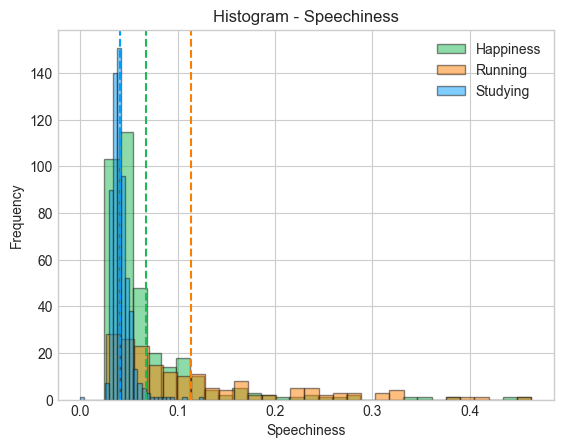
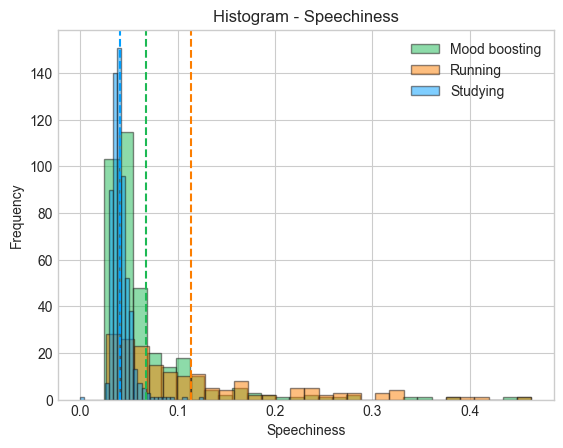
Renamed "happy/happiness" to "mood boosting"

Changed region(s): [[0.7247, 0.0938, 0.9663, 0.2188]]

diff --git a/src/main.py b/src/main.py
@@ -34,17 +34,17 @@ def main():
     spotify = authenticate_client()
 
     df = parse_input_file()
-    playlist_ids_happy = get_playlist_ids(df, 'happy')
+    playlist_ids_mood_boosting = get_playlist_ids(df, 'mood boosting')
     playlist_ids_running = get_playlist_ids(df, 'running')
     playlist_ids_studying = get_playlist_ids(df, 'studying')
 
     # Get tracks from a list of playlists
-    tracks_happy = get_tracks_from_list_of_playlists(spotify, playlist_ids_happy)
+    tracks_mood_boosting = get_tracks_from_list_of_playlists(spotify, playlist_ids_mood_boosting)
     tracks_running = get_tracks_from_list_of_playlists(spotify, playlist_ids_running)
     tracks_studying = get_tracks_from_list_of_playlists(spotify, playlist_ids_studying)
 
     # Get high level audio feature information
-    track_features_map_happy = get_audio_features_in_chunks(spotify, tracks_happy)
+    track_features_map_mood_boosting = get_audio_features_in_chunks(spotify, tracks_mood_boosting)
     track_features_map_running = get_audio_features_in_chunks(spotify, tracks_running)
     track_features_map_studying = get_audio_features_in_chunks(spotify, tracks_studying)
 
@@ -52,16 +52,16 @@ def main():
     t_test_list = []
     for desired_feature in desired_features:
         # Calculate descriptive statistics
-        statistics_list.append(calculate_descriptive_statistics(track_features_map_happy, desired_feature, "happy"))
+        statistics_list.append(calculate_descriptive_statistics(track_features_map_mood_boosting, desired_feature, "mood boosting"))
         statistics_list.append(calculate_descriptive_statistics(track_features_map_running, desired_feature, "running"))
         statistics_list.append(calculate_descriptive_statistics(track_features_map_studying, desired_feature, "studying"))
 
         # Perform t-test
-        t_test_list.append(t_test(track_features_map_happy, track_features_map_running, desired_feature, "running"))
-        t_test_list.append(t_test(track_features_map_happy, track_features_map_studying, desired_feature, "studying"))
+        t_test_list.append(t_test(track_features_map_mood_boosting, track_features_map_running, desired_feature, "running"))
+        t_test_list.append(t_test(track_features_map_mood_boosting, track_features_map_studying, desired_feature, "studying"))
 
         # Create plots per desired feature
-        create_histogram(track_features_map_happy, track_features_map_running, track_features_map_studying,
+        create_histogram(track_features_map_mood_boosting, track_features_map_running, track_features_map_studying,
                          desired_feature)
 
     pd.DataFrame(statistics_list, columns=["mean", "standard deviation", "standard error", "feature", "group"]).to_latex(("../tables/statistics.tex"),index=False)
@@ -136,10 +136,10 @@ def get_audio_features(spotify, tracks, pretty_print=False):
     return track_features_map
 
 
-def create_histogram(track_features_map_happy, track_features_map_running, track_features_map_studying,
+def create_histogram(track_features_map_mood_boosting, track_features_map_running, track_features_map_studying,
                      desired_feature):
     # Convert nested dictionary to data frame
-    track_features_df_happy = pd.DataFrame.from_dict(track_features_map_happy, orient='index')
+    track_features_df_mood_boosting = pd.DataFrame.from_dict(track_features_map_mood_boosting, orient='index')
     track_features_df_running = pd.DataFrame.from_dict(track_features_map_running, orient='index')
     track_features_df_studying = pd.DataFrame.from_dict(track_features_map_studying, orient='index')
 
@@ -148,7 +148,7 @@ def create_histogram(track_features_map_happy, track_features_map_running, track
     plt.style.use('seaborn-whitegrid')
 
     # Plot histograms per category
-    plt.hist(track_features_df_happy[desired_feature], bins=30, alpha=0.5, label="Happiness", facecolor='#1DB954',
+    plt.hist(track_features_df_mood_boosting[desired_feature], bins=30, alpha=0.5, label="Mood boosting", facecolor='#1DB954',
              edgecolor='#191414')
     plt.hist(track_features_df_running[desired_feature], bins=30, alpha=0.5, label="Running", facecolor='#FC7E00',
              edgecolor='#191414')
@@ -156,7 +156,7 @@ def create_histogram(track_features_map_happy, track_features_map_running, track
              edgecolor='#191414')
 
     # Plot dashed line for average
-    plt.axvline(track_features_df_happy[desired_feature].mean(), color='#1DB954', linestyle='dashed')
+    plt.axvline(track_features_df_mood_boosting[desired_feature].mean(), color='#1DB954', linestyle='dashed')
     plt.axvline(track_features_df_running[desired_feature].mean(), color='#FC7E00', linestyle='dashed')
     plt.axvline(track_features_df_studying[desired_feature].mean(), color='#009FFF', linestyle='dashed')
 

diff --git a/tables/statistics.tex b/tables/statistics.tex
@@ -1,24 +1,24 @@
 \begin{tabular}{rrrll}
 \toprule
-   mean &  standard deviation &  standard error &      feature &    group \\
+   mean &  standard deviation &  standard error &      feature &         group \\
 \midrule
-119.429 &              25.672 &           1.359 &        tempo &    happy \\
-127.869 &              29.608 &           2.238 &        tempo &  running \\
-115.602 &              35.325 &           1.429 &        tempo & studying \\
- -5.633 &               1.737 &           0.092 &     loudness &    happy \\
- -4.886 &               1.489 &           0.113 &     loudness &  running \\
--25.236 &               4.797 &           0.194 &     loudness & studying \\
-  0.694 &               0.151 &           0.008 &       energy &    happy \\
-  0.839 &               0.115 &           0.009 &       energy &  running \\
-  0.083 &               0.083 &           0.003 &       energy & studying \\
-  0.652 &               0.107 &           0.006 & danceability &    happy \\
-  0.586 &               0.149 &           0.011 & danceability &  running \\
-  0.368 &               0.118 &           0.005 & danceability & studying \\
-  0.067 &               0.058 &           0.003 &  speechiness &    happy \\
-  0.114 &               0.090 &           0.007 &  speechiness &  running \\
-  0.041 &               0.010 &           0.000 &  speechiness & studying \\
-  0.548 &               0.208 &           0.011 &      valence &    happy \\
-  0.550 &               0.199 &           0.015 &      valence &  running \\
-  0.207 &               0.144 &           0.006 &      valence & studying \\
+119.429 &              25.672 &           1.359 &        tempo & mood boosting \\
+127.869 &              29.608 &           2.238 &        tempo &       running \\
+115.602 &              35.325 &           1.429 &        tempo &      studying \\
+ -5.633 &               1.737 &           0.092 &     loudness & mood boosting \\
+ -4.886 &               1.489 &           0.113 &     loudness &       running \\
+-25.236 &               4.797 &           0.194 &     loudness &      studying \\
+  0.694 &               0.151 &           0.008 &       energy & mood boosting \\
+  0.839 &               0.115 &           0.009 &       energy &       running \\
+  0.083 &               0.083 &           0.003 &       energy &      studying \\
+  0.652 &               0.107 &           0.006 & danceability & mood boosting \\
+  0.586 &               0.149 &           0.011 & danceability &       running \\
+  0.368 &               0.118 &           0.005 & danceability &      studying \\
+  0.067 &               0.058 &           0.003 &  speechiness & mood boosting \\
+  0.114 &               0.090 &           0.007 &  speechiness &       running \\
+  0.041 &               0.010 &           0.000 &  speechiness &      studying \\
+  0.548 &               0.208 &           0.011 &      valence & mood boosting \\
+  0.550 &               0.199 &           0.015 &      valence &       running \\
+  0.207 &               0.144 &           0.006 &      valence &      studying \\
 \bottomrule
 \end{tabular}
